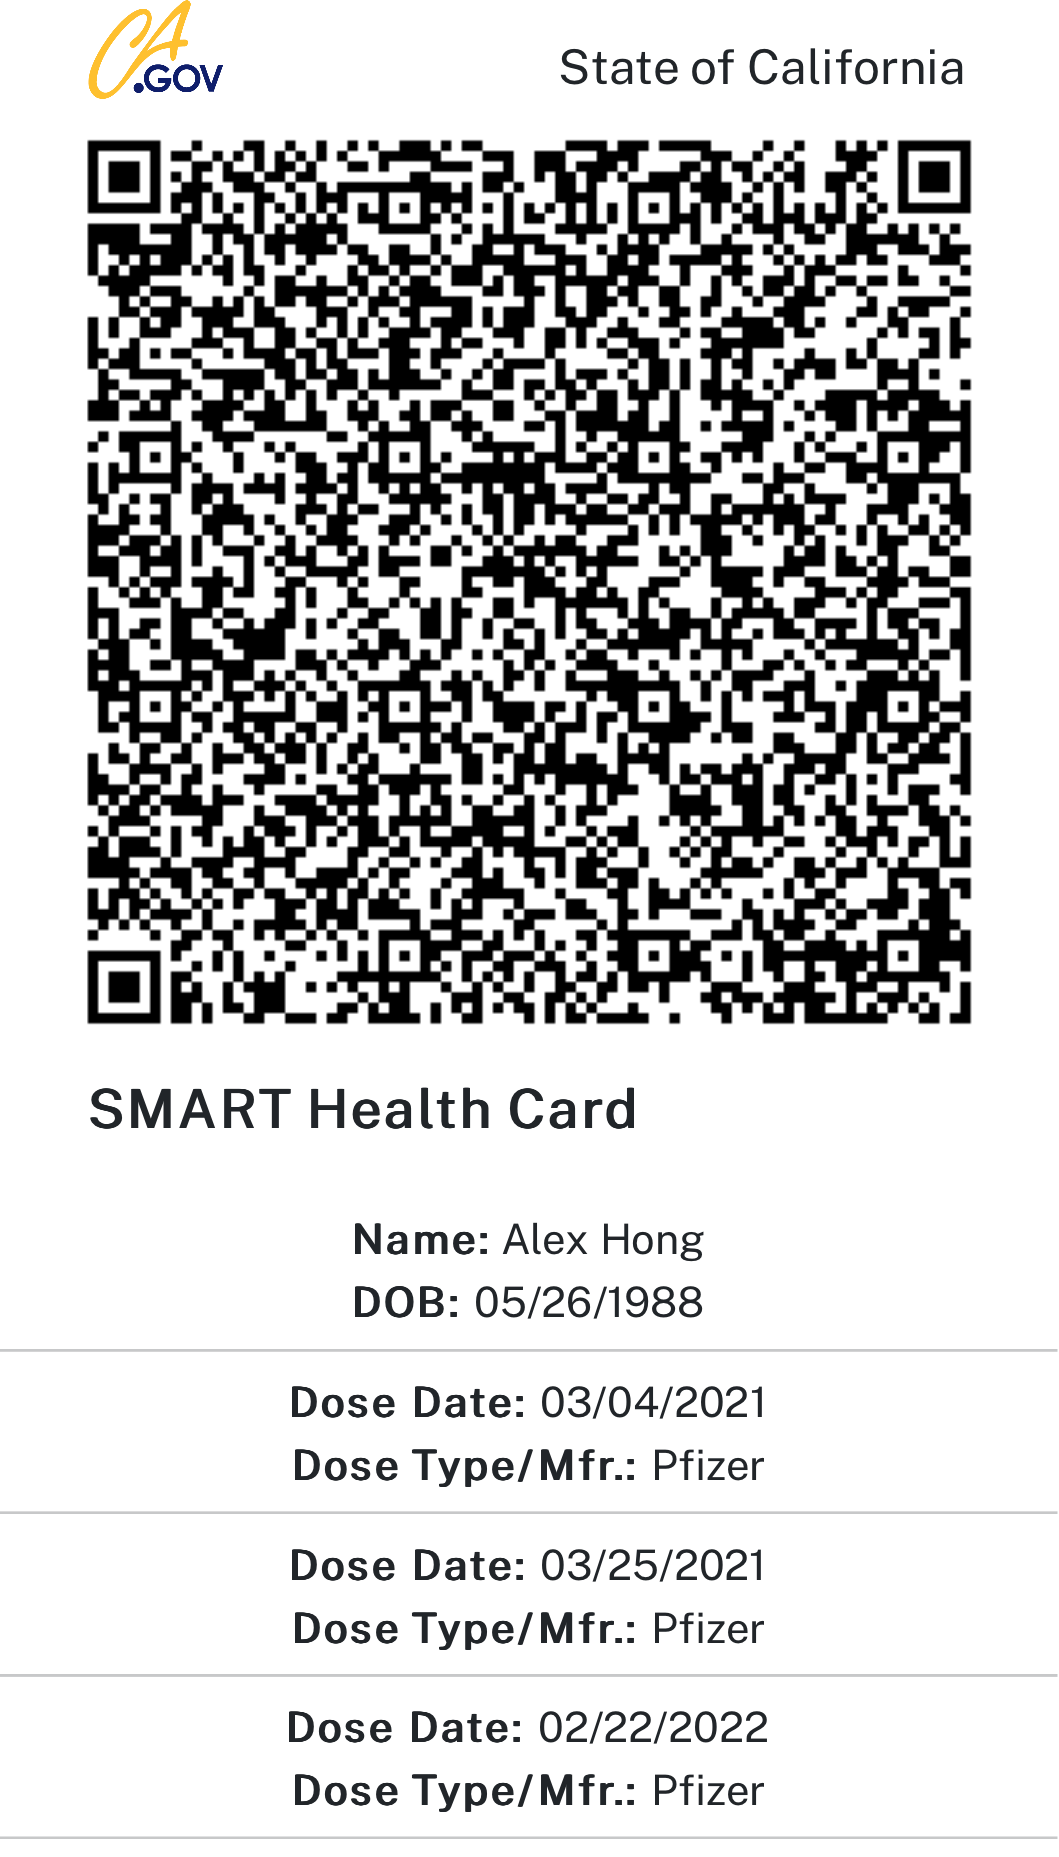
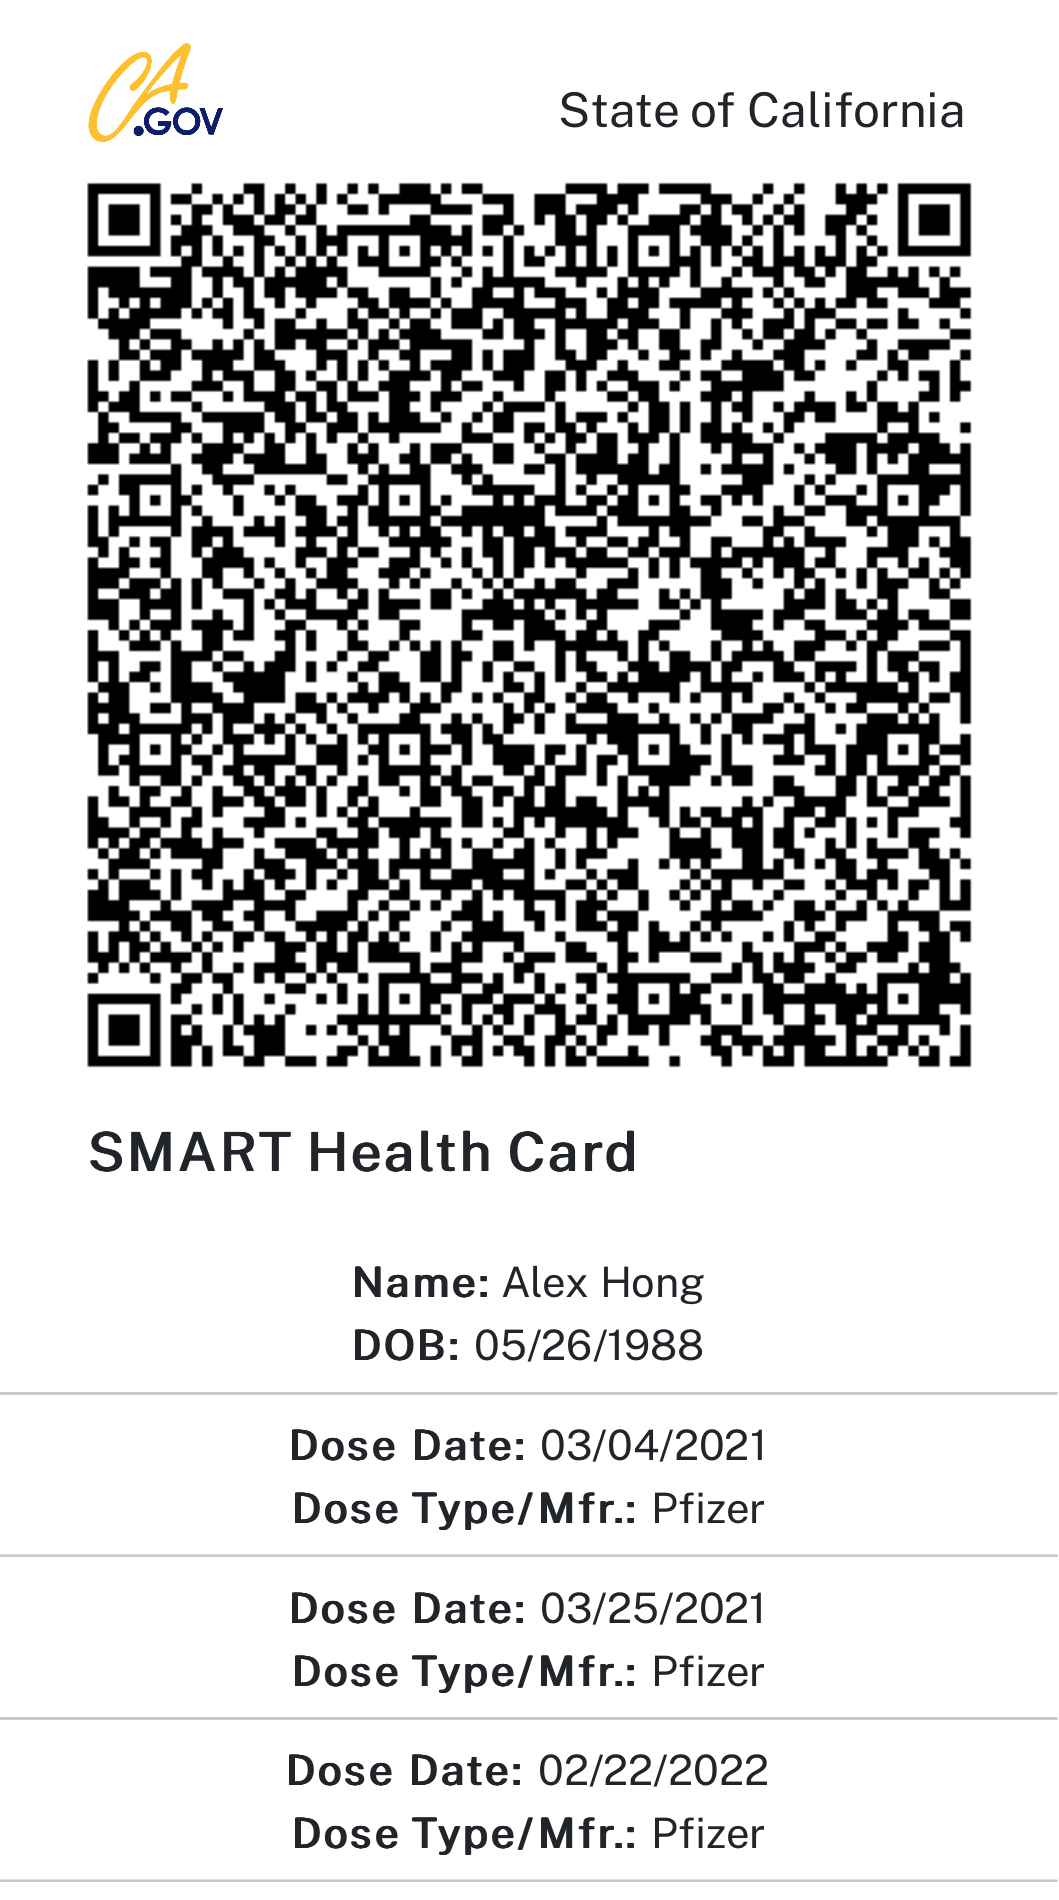
vax

diff --git a/vax.html b/vax.html
@@ -11,7 +11,7 @@ html, body{
 	height: 100%;
 }
 body {
-	background: #fff url('vax.png') center no-repeat;
+	background: #fff url('vax.png') top no-repeat;
 	background-size: contain;
 }
 </style>
